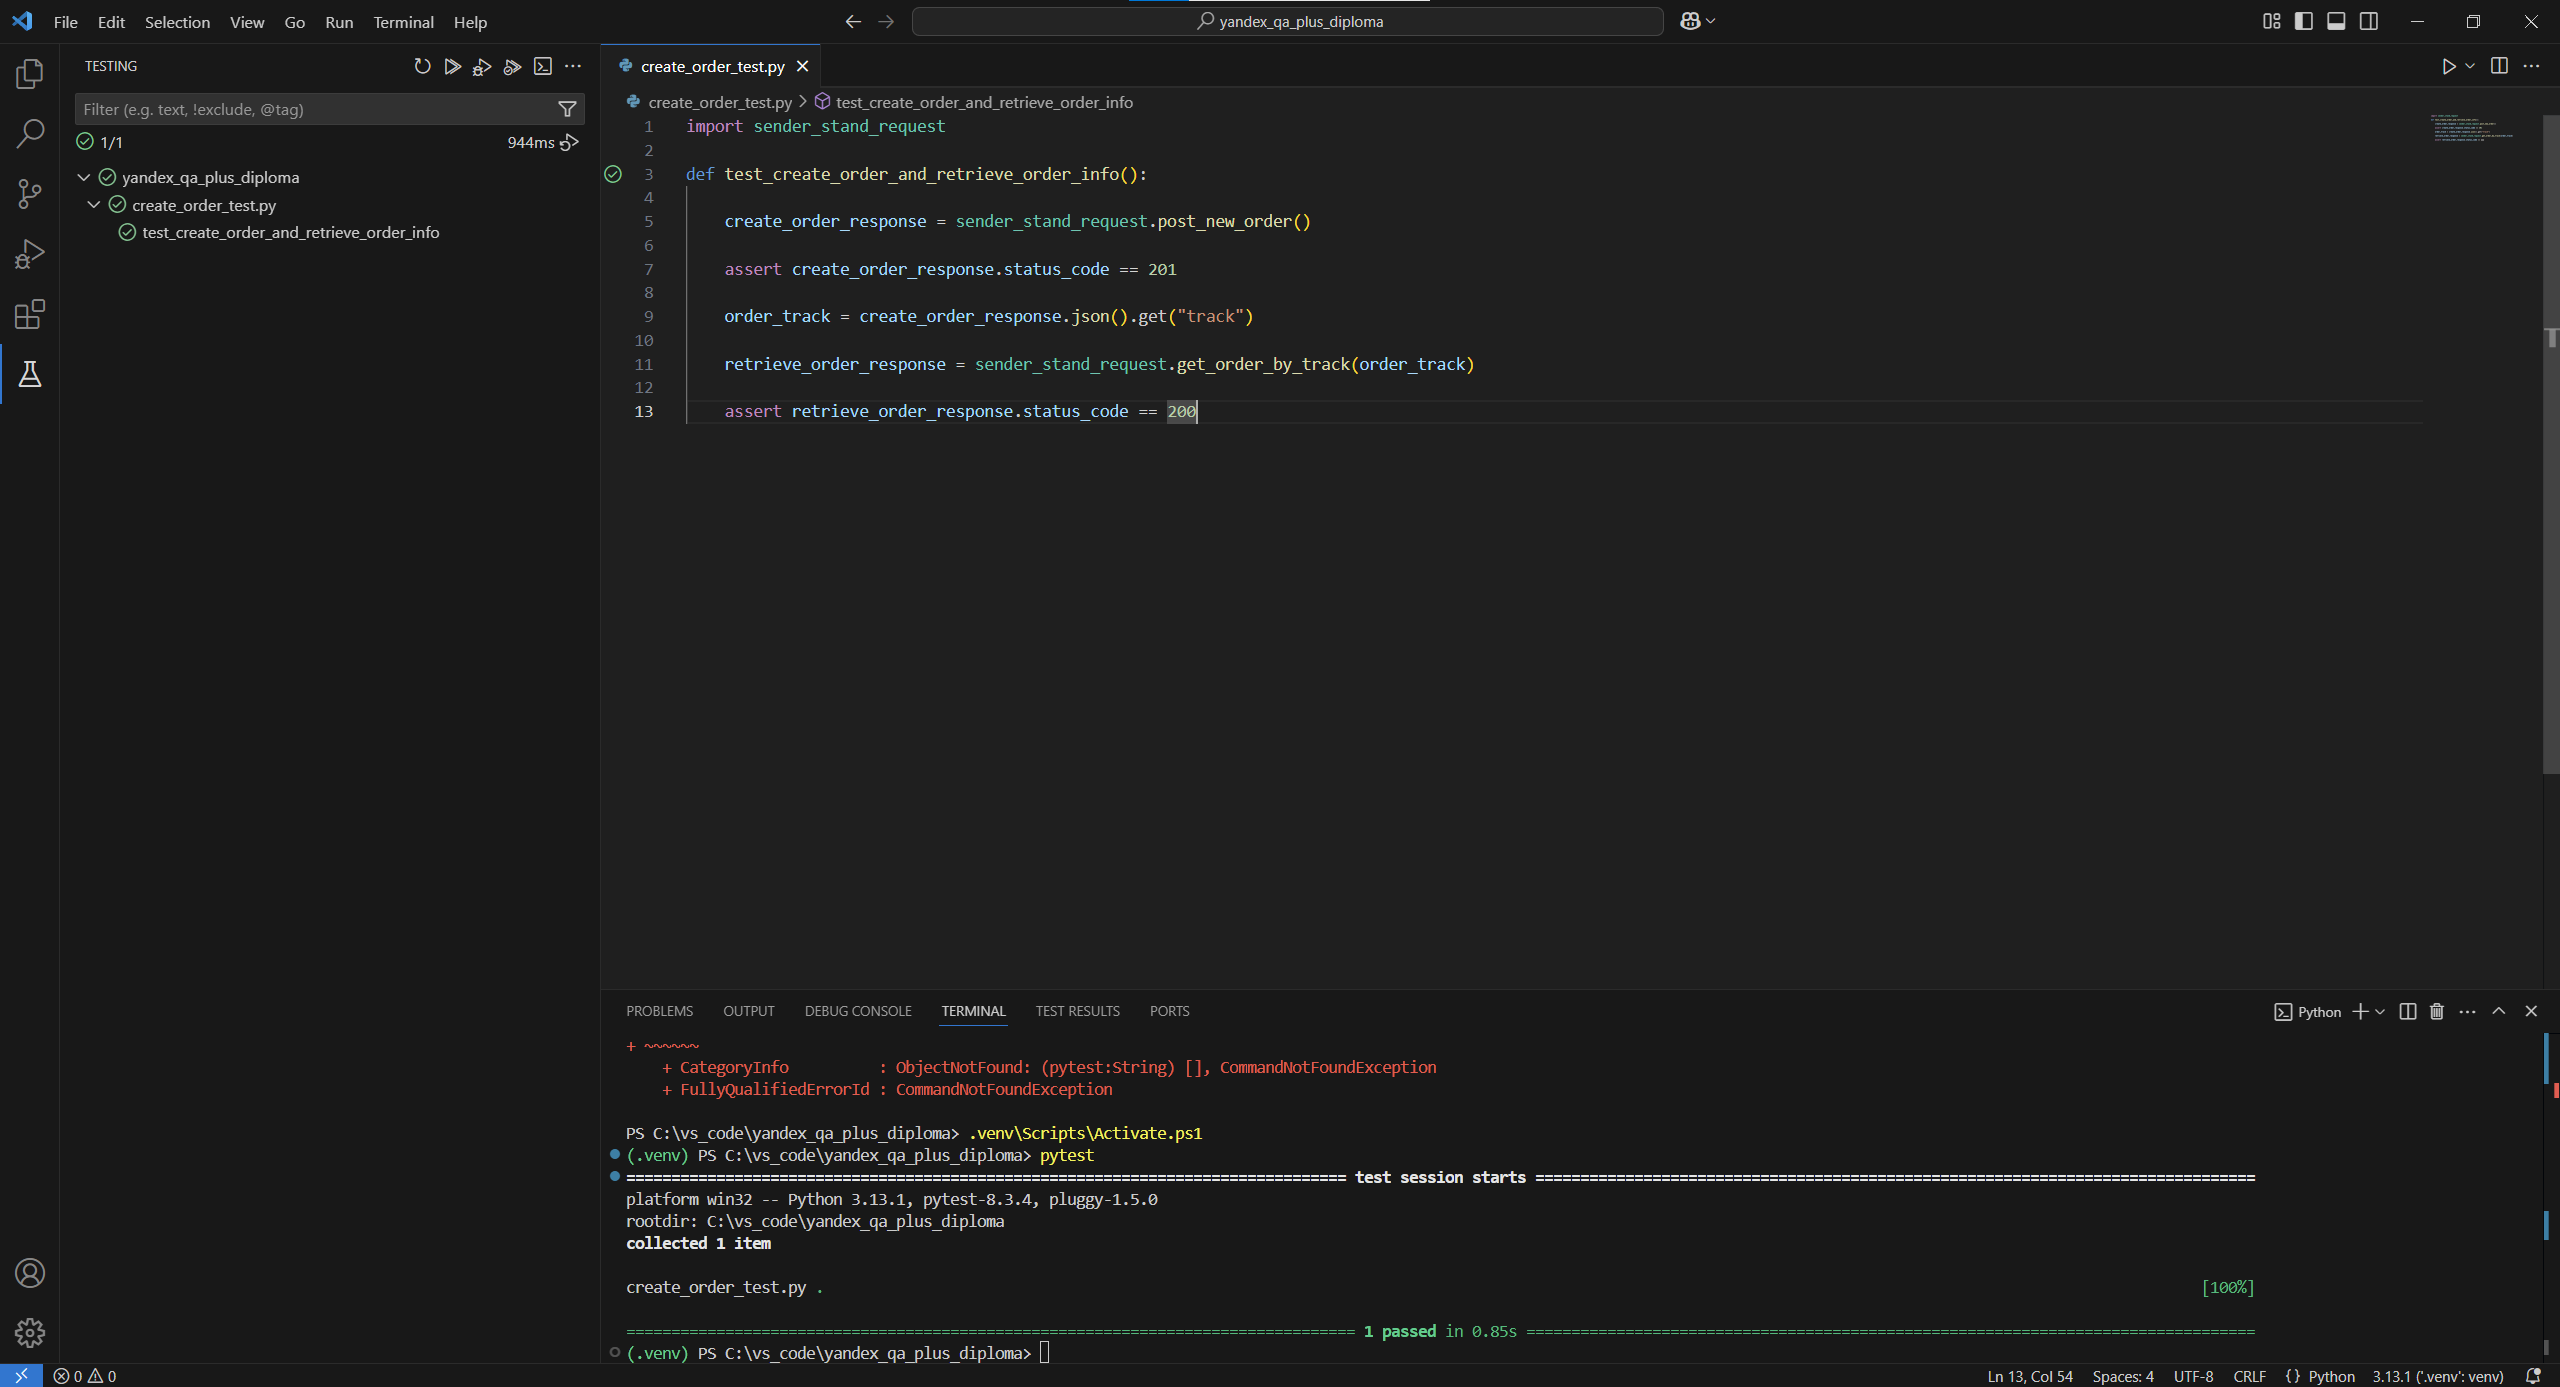
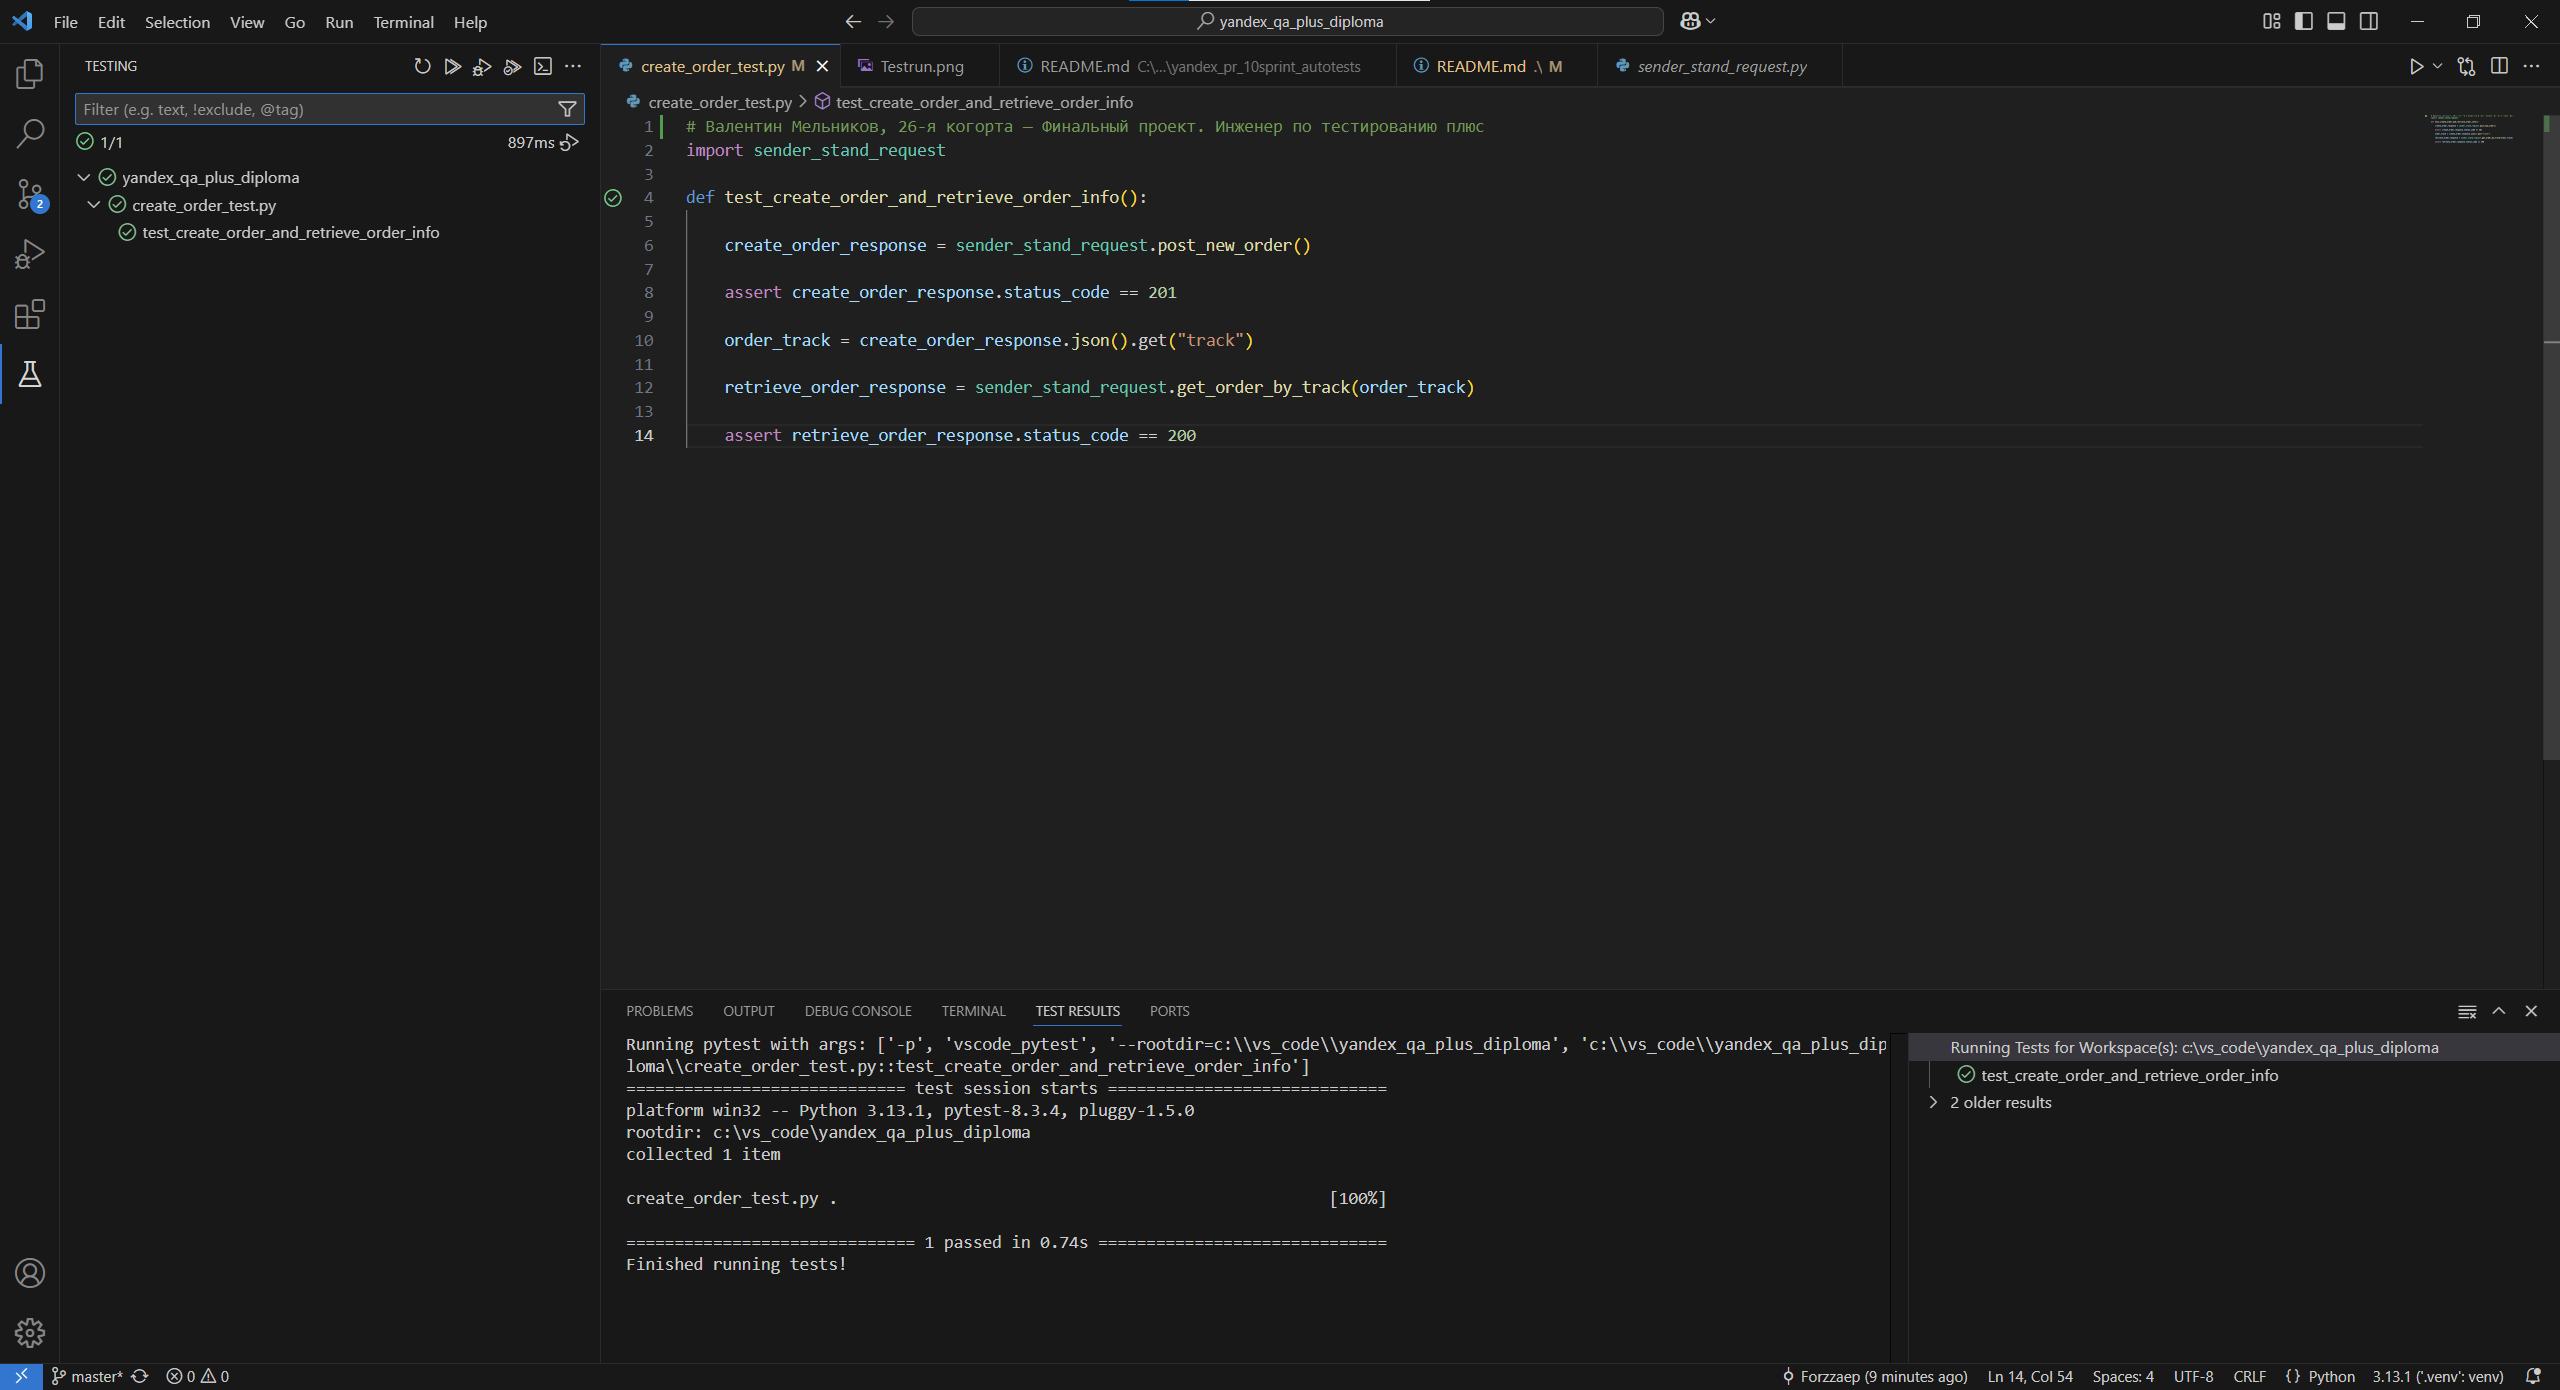
Yandex Practicun QA+ Diploma

diff --git a/create_order_test.py b/create_order_test.py
@@ -1,3 +1,4 @@
+# Валентин Мельников, 26-я когорта — Финальный проект. Инженер по тестированию плюс
 import sender_stand_request
 
 def test_create_order_and_retrieve_order_info():

diff --git a/README.md b/README.md
@@ -7,7 +7,7 @@
 
 Автоматизация теста к API : Автоматизируй сценарий, который подготовили коллеги-тестировщики: Клиент создает заказ. Проверяется, что по треку заказа можно получить данные о заказе.
 
-# Автоматизация теста для проверки создания заказа и получение информации по трек-номеру в Яндекс.Самокат.
+Автоматизация теста для проверки создания заказа и получение информации по трек-номеру в Яндекс.Самокат.
 
 - Для запуска тестов должны быть установлены пакеты pytest и requests
 - Запуск всех тестов выполняется командой pytest
